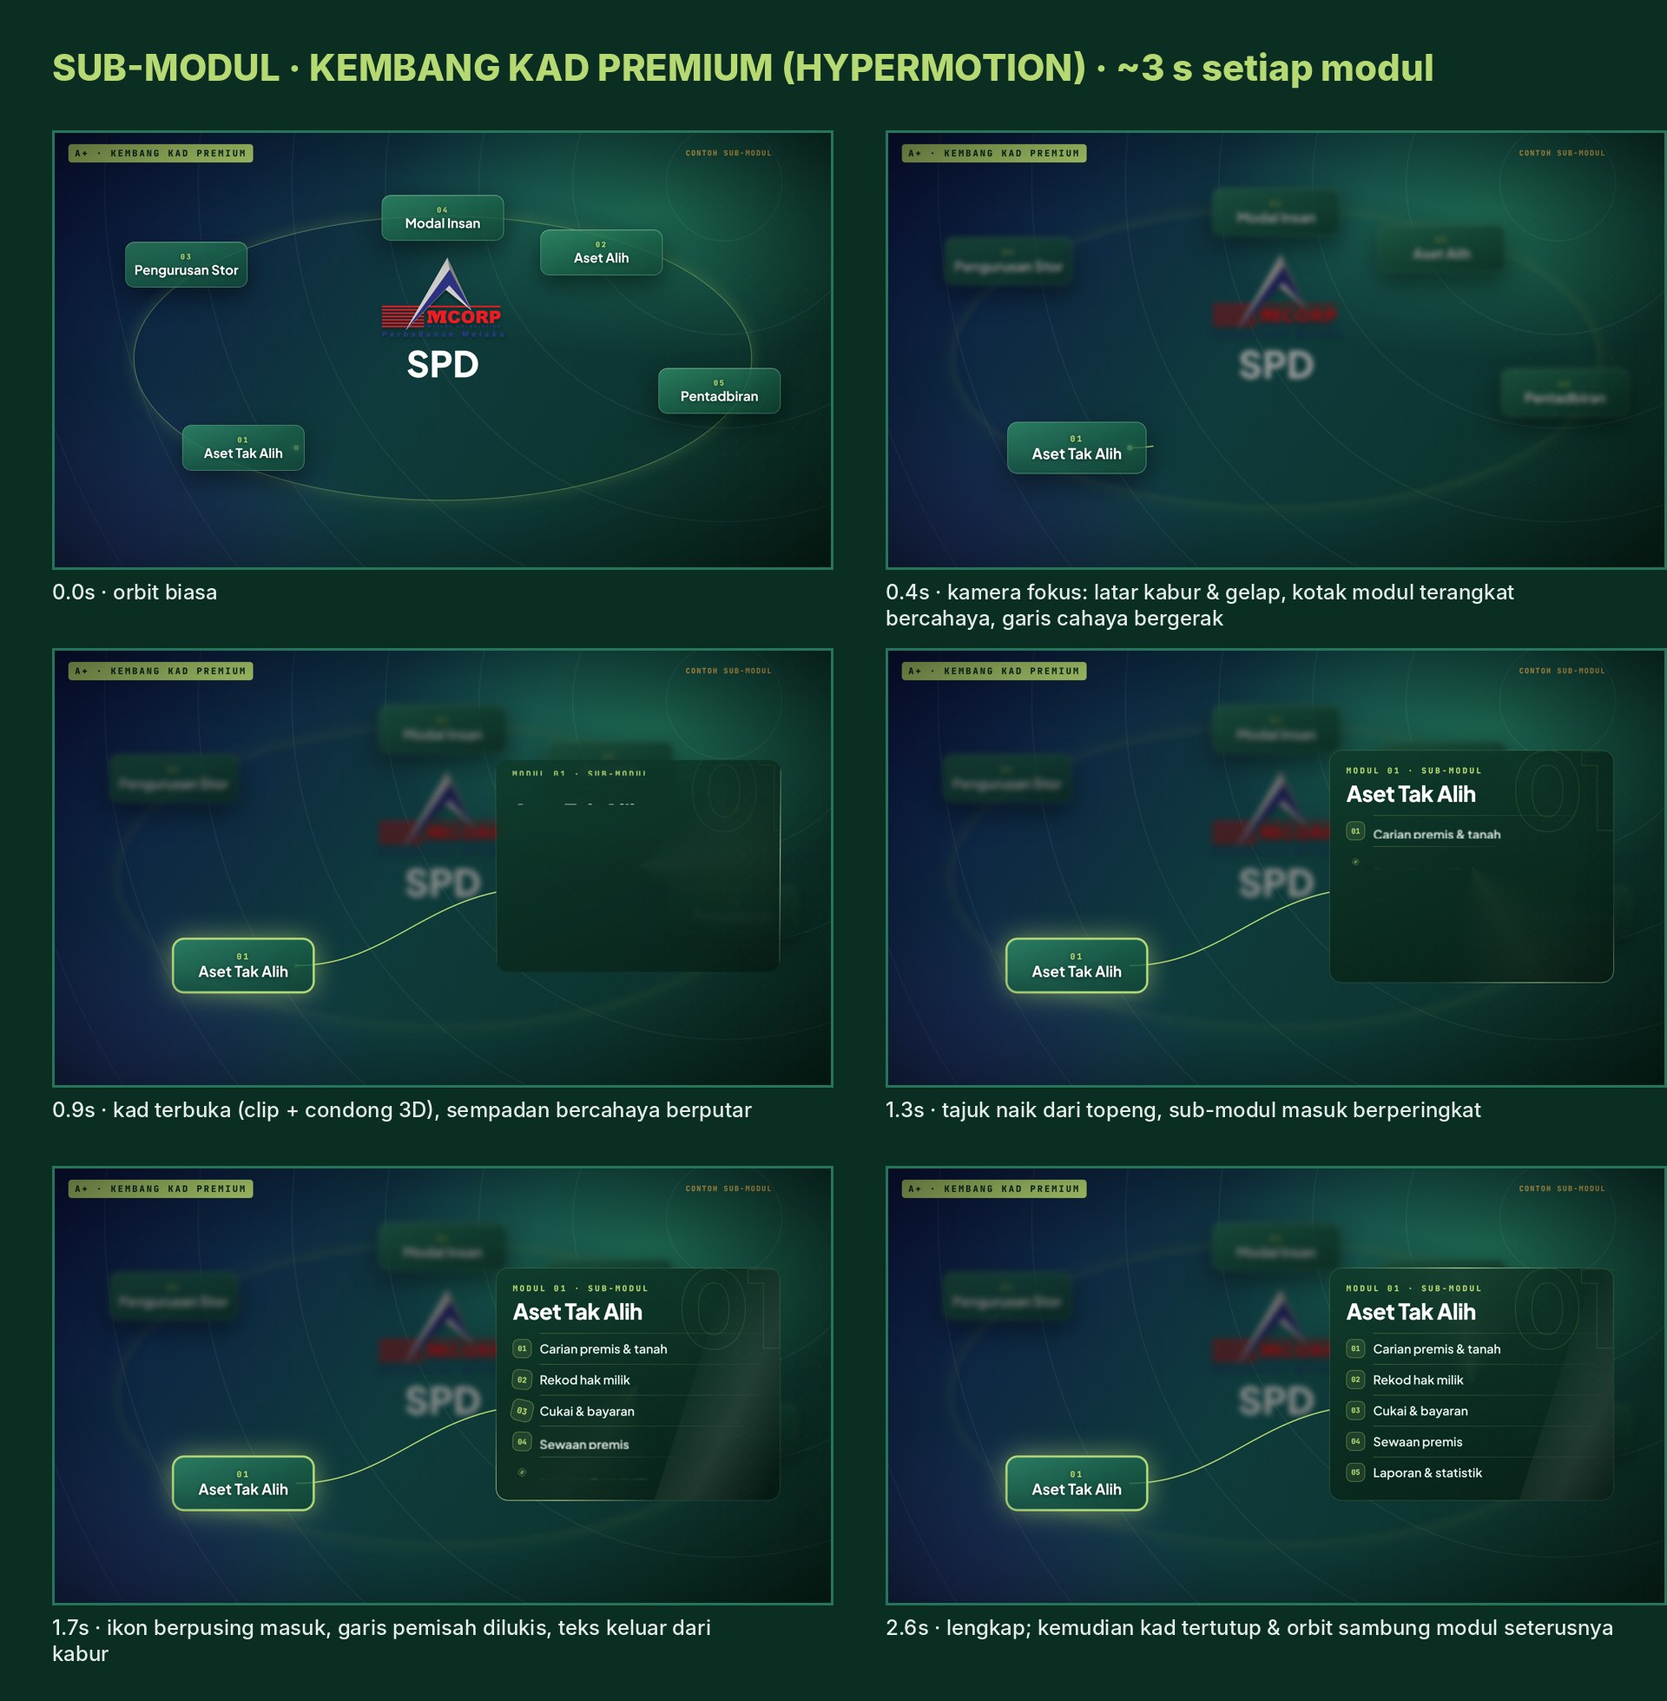
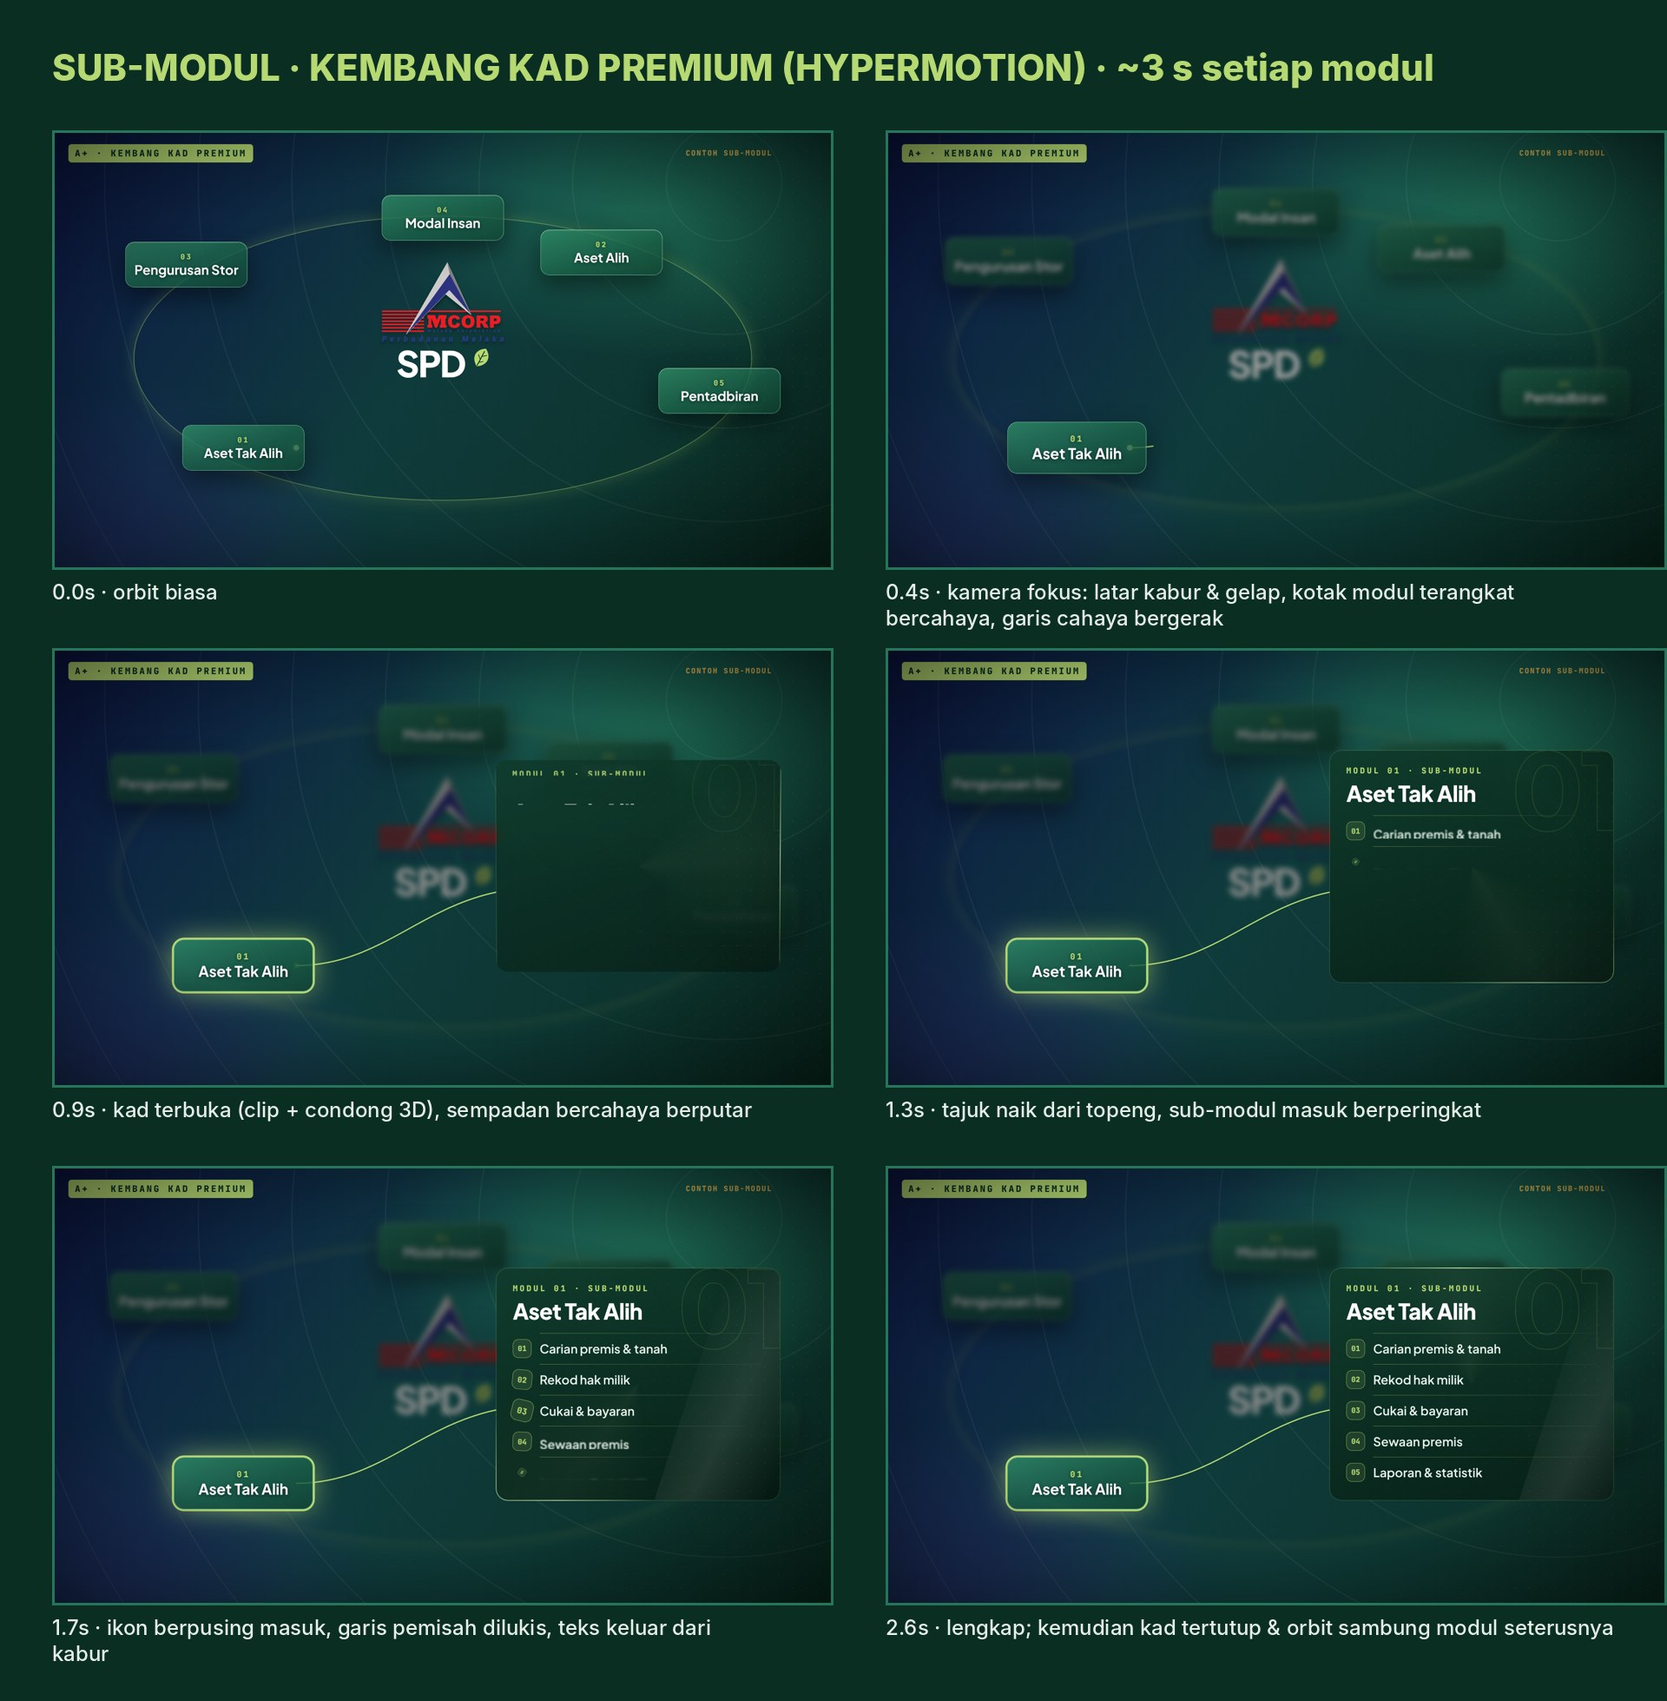
SPD GREEN v10 plan: opener back on the film's navy-teal-emerald look; SPD leaf in the sub-module mockup
Claude-Session: https://claude.ai/code/session_014fjMyw9vyhvV2J4P82XCFp

diff --git a/edits/spd-green/hf/compositions/s00.html b/edits/spd-green/hf/compositions/s00.html
@@ -6,13 +6,13 @@
       <div id="root" data-composition-id="s00" data-width="1920" data-height="1080" style="position:absolute;inset:0;overflow:hidden">
       <div id="s00-o" style="position:absolute;inset:0"><div id="s00-i" style="position:absolute;inset:0">
 
-<div class="F" style="background:radial-gradient(ellipse 80% 75% at 50% 40%,#4aa883 0%,#22735a 42%,#124a39 78%,#0d3a2c 100%)">
+<div class="F gdark">
   <div id="s00-cone" class="abs" style="left:460px;top:-160px;width:1000px;height:980px;opacity:0;
     background:conic-gradient(from 180deg at 50% 0%,transparent 0 160deg,rgba(235,255,240,.18) 170deg,rgba(240,255,244,.30) 180deg,rgba(235,255,240,.18) 190deg,transparent 200deg);
     -webkit-mask-image:linear-gradient(#000 30%,transparent 92%)"></div>
   <div id="s00-dust" class="abs" style="inset:0"><i class="s00-du" style="position:absolute;left:778px;top:735px;width:3px;height:3px;border-radius:50%;background:rgba(220,255,225,0.38);display:block;filter:blur(0px)" data-dy="-90"></i><i class="s00-du" style="position:absolute;left:474px;top:548px;width:4px;height:4px;border-radius:50%;background:rgba(220,255,225,0.54);display:block;filter:blur(1px)" data-dy="-64"></i><i class="s00-du" style="position:absolute;left:1428px;top:165px;width:3px;height:3px;border-radius:50%;background:rgba(220,255,225,0.57);display:block;filter:blur(0px)" data-dy="-70"></i><i class="s00-du" style="position:absolute;left:770px;top:605px;width:3px;height:3px;border-radius:50%;background:rgba(220,255,225,0.38);display:block;filter:blur(0px)" data-dy="-86"></i><i class="s00-du" style="position:absolute;left:1453px;top:864px;width:4px;height:4px;border-radius:50%;background:rgba(220,255,225,0.30);display:block;filter:blur(1px)" data-dy="-84"></i><i class="s00-du" style="position:absolute;left:895px;top:475px;width:4px;height:4px;border-radius:50%;background:rgba(220,255,225,0.28);display:block;filter:blur(1px)" data-dy="-89"></i><i class="s00-du" style="position:absolute;left:301px;top:298px;width:2px;height:2px;border-radius:50%;background:rgba(220,255,225,0.34);display:block;filter:blur(0px)" data-dy="-32"></i><i class="s00-du" style="position:absolute;left:407px;top:561px;width:2px;height:2px;border-radius:50%;background:rgba(220,255,225,0.42);display:block;filter:blur(0px)" data-dy="-45"></i><i class="s00-du" style="position:absolute;left:1113px;top:509px;width:4px;height:4px;border-radius:50%;background:rgba(220,255,225,0.28);display:block;filter:blur(1px)" data-dy="-50"></i><i class="s00-du" style="position:absolute;left:706px;top:877px;width:3px;height:3px;border-radius:50%;background:rgba(220,255,225,0.55);display:block;filter:blur(0px)" data-dy="-69"></i><i class="s00-du" style="position:absolute;left:478px;top:398px;width:6px;height:6px;border-radius:50%;background:rgba(220,255,225,0.40);display:block;filter:blur(1px)" data-dy="-64"></i><i class="s00-du" style="position:absolute;left:541px;top:217px;width:4px;height:4px;border-radius:50%;background:rgba(220,255,225,0.36);display:block;filter:blur(1px)" data-dy="-84"></i><i class="s00-du" style="position:absolute;left:322px;top:141px;width:2px;height:2px;border-radius:50%;background:rgba(220,255,225,0.46);display:block;filter:blur(0px)" data-dy="-59"></i><i class="s00-du" style="position:absolute;left:663px;top:778px;width:2px;height:2px;border-radius:50%;background:rgba(220,255,225,0.50);display:block;filter:blur(0px)" data-dy="-62"></i><i class="s00-du" style="position:absolute;left:1342px;top:275px;width:3px;height:3px;border-radius:50%;background:rgba(220,255,225,0.69);display:block;filter:blur(0px)" data-dy="-41"></i><i class="s00-du" style="position:absolute;left:568px;top:509px;width:3px;height:3px;border-radius:50%;background:rgba(220,255,225,0.54);display:block;filter:blur(0px)" data-dy="-83"></i><i class="s00-du" style="position:absolute;left:1108px;top:510px;width:2px;height:2px;border-radius:50%;background:rgba(220,255,225,0.70);display:block;filter:blur(0px)" data-dy="-90"></i><i class="s00-du" style="position:absolute;left:852px;top:686px;width:2px;height:2px;border-radius:50%;background:rgba(220,255,225,0.39);display:block;filter:blur(0px)" data-dy="-34"></i><i class="s00-du" style="position:absolute;left:340px;top:295px;width:4px;height:4px;border-radius:50%;background:rgba(220,255,225,0.33);display:block;filter:blur(1px)" data-dy="-36"></i><i class="s00-du" style="position:absolute;left:1532px;top:737px;width:6px;height:6px;border-radius:50%;background:rgba(220,255,225,0.51);display:block;filter:blur(1px)" data-dy="-88"></i><i class="s00-du" style="position:absolute;left:599px;top:298px;width:6px;height:6px;border-radius:50%;background:rgba(220,255,225,0.45);display:block;filter:blur(1px)" data-dy="-90"></i><i class="s00-du" style="position:absolute;left:1549px;top:416px;width:2px;height:2px;border-radius:50%;background:rgba(220,255,225,0.62);display:block;filter:blur(0px)" data-dy="-66"></i><i class="s00-du" style="position:absolute;left:450px;top:156px;width:4px;height:4px;border-radius:50%;background:rgba(220,255,225,0.29);display:block;filter:blur(1px)" data-dy="-53"></i><i class="s00-du" style="position:absolute;left:1603px;top:328px;width:3px;height:3px;border-radius:50%;background:rgba(220,255,225,0.26);display:block;filter:blur(0px)" data-dy="-67"></i><i class="s00-du" style="position:absolute;left:1061px;top:717px;width:3px;height:3px;border-radius:50%;background:rgba(220,255,225,0.45);display:block;filter:blur(0px)" data-dy="-53"></i><i class="s00-du" style="position:absolute;left:1290px;top:668px;width:6px;height:6px;border-radius:50%;background:rgba(220,255,225,0.31);display:block;filter:blur(1px)" data-dy="-66"></i><i class="s00-du" style="position:absolute;left:674px;top:722px;width:6px;height:6px;border-radius:50%;background:rgba(220,255,225,0.32);display:block;filter:blur(1px)" data-dy="-32"></i><i class="s00-du" style="position:absolute;left:767px;top:705px;width:4px;height:4px;border-radius:50%;background:rgba(220,255,225,0.36);display:block;filter:blur(1px)" data-dy="-78"></i><i class="s00-du" style="position:absolute;left:624px;top:837px;width:6px;height:6px;border-radius:50%;background:rgba(220,255,225,0.53);display:block;filter:blur(1px)" data-dy="-55"></i><i class="s00-du" style="position:absolute;left:702px;top:783px;width:2px;height:2px;border-radius:50%;background:rgba(220,255,225,0.68);display:block;filter:blur(0px)" data-dy="-34"></i><i class="s00-du" style="position:absolute;left:1288px;top:698px;width:4px;height:4px;border-radius:50%;background:rgba(220,255,225,0.29);display:block;filter:blur(1px)" data-dy="-87"></i><i class="s00-du" style="position:absolute;left:512px;top:191px;width:2px;height:2px;border-radius:50%;background:rgba(220,255,225,0.27);display:block;filter:blur(0px)" data-dy="-74"></i><i class="s00-du" style="position:absolute;left:788px;top:837px;width:4px;height:4px;border-radius:50%;background:rgba(220,255,225,0.57);display:block;filter:blur(1px)" data-dy="-74"></i><i class="s00-du" style="position:absolute;left:1161px;top:690px;width:2px;height:2px;border-radius:50%;background:rgba(220,255,225,0.47);display:block;filter:blur(0px)" data-dy="-57"></i><i class="s00-du" style="position:absolute;left:659px;top:817px;width:2px;height:2px;border-radius:50%;background:rgba(220,255,225,0.69);display:block;filter:blur(0px)" data-dy="-82"></i><i class="s00-du" style="position:absolute;left:767px;top:570px;width:2px;height:2px;border-radius:50%;background:rgba(220,255,225,0.50);display:block;filter:blur(0px)" data-dy="-36"></i><i class="s00-du" style="position:absolute;left:1561px;top:709px;width:2px;height:2px;border-radius:50%;background:rgba(220,255,225,0.28);display:block;filter:blur(0px)" data-dy="-77"></i><i class="s00-du" style="position:absolute;left:717px;top:846px;width:2px;height:2px;border-radius:50%;background:rgba(220,255,225,0.26);display:block;filter:blur(0px)" data-dy="-73"></i><i class="s00-du" style="position:absolute;left:1142px;top:536px;width:4px;height:4px;border-radius:50%;background:rgba(220,255,225,0.36);display:block;filter:blur(1px)" data-dy="-88"></i><i class="s00-du" style="position:absolute;left:660px;top:368px;width:2px;height:2px;border-radius:50%;background:rgba(220,255,225,0.42);display:block;filter:blur(0px)" data-dy="-54"></i><i class="s00-du" style="position:absolute;left:569px;top:174px;width:3px;height:3px;border-radius:50%;background:rgba(220,255,225,0.41);display:block;filter:blur(0px)" data-dy="-33"></i><i class="s00-du" style="position:absolute;left:1222px;top:418px;width:3px;height:3px;border-radius:50%;background:rgba(220,255,225,0.55);display:block;filter:blur(0px)" data-dy="-46"></i><i class="s00-du" style="position:absolute;left:1368px;top:678px;width:3px;height:3px;border-radius:50%;background:rgba(220,255,225,0.68);display:block;filter:blur(0px)" data-dy="-53"></i><i class="s00-du" style="position:absolute;left:371px;top:98px;width:4px;height:4px;border-radius:50%;background:rgba(220,255,225,0.46);display:block;filter:blur(1px)" data-dy="-68"></i><i class="s00-du" style="position:absolute;left:938px;top:114px;width:2px;height:2px;border-radius:50%;background:rgba(220,255,225,0.26);display:block;filter:blur(0px)" data-dy="-50"></i><i class="s00-du" style="position:absolute;left:453px;top:573px;width:4px;height:4px;border-radius:50%;background:rgba(220,255,225,0.28);display:block;filter:blur(1px)" data-dy="-71"></i></div>
   <div id="s00-gl" class="abs" style="left:510px;top:200px;width:900px;height:560px;opacity:0;
-    background:radial-gradient(closest-side,rgba(255,255,255,.62),rgba(225,255,235,.22) 55%,transparent)"></div>
+    background:radial-gradient(closest-side,rgba(255,255,255,.50),rgba(182,217,115,.14) 55%,transparent)"></div>
   <div id="s00-floor" class="abs" style="left:0;right:0;top:720px;height:2px;opacity:0;background:linear-gradient(90deg,transparent,rgba(182,217,115,.55),transparent)"></div>
   <div id="s00-lw" class="abs" style="left:0;right:0;top:330px;display:flex;justify-content:center;perspective:1500px;opacity:0"><div id="s00-logo" style="position:relative;width:520px;height:347px;transform-style:preserve-3d"><div style="position:absolute;inset:0;transform:translateZ(-27.0px);filter:brightness(0.30)"><img src="assets/img/logo-pptx.png" style="width:100%;height:100%;display:block"></div><div style="position:absolute;inset:0;transform:translateZ(-25.5px);filter:brightness(0.31)"><img src="assets/img/logo-pptx.png" style="width:100%;height:100%;display:block"></div><div style="position:absolute;inset:0;transform:translateZ(-24.0px);filter:brightness(0.33)"><img src="assets/img/logo-pptx.png" style="width:100%;height:100%;display:block"></div><div style="position:absolute;inset:0;transform:translateZ(-22.5px);filter:brightness(0.34)"><img src="assets/img/logo-pptx.png" style="width:100%;height:100%;display:block"></div><div style="position:absolute;inset:0;transform:translateZ(-21.0px);filter:brightness(0.35)"><img src="assets/img/logo-pptx.png" style="width:100%;height:100%;display:block"></div><div style="position:absolute;inset:0;transform:translateZ(-19.5px);filter:brightness(0.37)"><img src="assets/img/logo-pptx.png" style="width:100%;height:100%;display:block"></div><div style="position:absolute;inset:0;transform:translateZ(-18.0px);filter:brightness(0.38)"><img src="assets/img/logo-pptx.png" style="width:100%;height:100%;display:block"></div><div style="position:absolute;inset:0;transform:translateZ(-16.5px);filter:brightness(0.40)"><img src="assets/img/logo-pptx.png" style="width:100%;height:100%;display:block"></div><div style="position:absolute;inset:0;transform:translateZ(-15.0px);filter:brightness(0.41)"><img src="assets/img/logo-pptx.png" style="width:100%;height:100%;display:block"></div><div style="position:absolute;inset:0;transform:translateZ(-13.5px);filter:brightness(0.42)"><img src="assets/img/logo-pptx.png" style="width:100%;height:100%;display:block"></div><div style="position:absolute;inset:0;transform:translateZ(-12.0px);filter:brightness(0.44)"><img src="assets/img/logo-pptx.png" style="width:100%;height:100%;display:block"></div><div style="position:absolute;inset:0;transform:translateZ(-10.5px);filter:brightness(0.45)"><img src="assets/img/logo-pptx.png" style="width:100%;height:100%;display:block"></div><div style="position:absolute;inset:0;transform:translateZ(-9.0px);filter:brightness(0.46)"><img src="assets/img/logo-pptx.png" style="width:100%;height:100%;display:block"></div><div style="position:absolute;inset:0;transform:translateZ(-7.5px);filter:brightness(0.48)"><img src="assets/img/logo-pptx.png" style="width:100%;height:100%;display:block"></div><div style="position:absolute;inset:0;transform:translateZ(-6.0px);filter:brightness(0.49)"><img src="assets/img/logo-pptx.png" style="width:100%;height:100%;display:block"></div><div style="position:absolute;inset:0;transform:translateZ(-4.5px);filter:brightness(0.50)"><img src="assets/img/logo-pptx.png" style="width:100%;height:100%;display:block"></div><div style="position:absolute;inset:0;transform:translateZ(-3.0px);filter:brightness(0.52)"><img src="assets/img/logo-pptx.png" style="width:100%;height:100%;display:block"></div><div style="position:absolute;inset:0;transform:translateZ(-1.5px);filter:brightness(0.53)"><img src="assets/img/logo-pptx.png" style="width:100%;height:100%;display:block"></div><div style="position:absolute;inset:0"><img src="assets/img/logo-pptx.png" style="width:100%;height:100%;display:block"></div><div class="sheen" id="s00-logo-sh" style="position:absolute;inset:0;transform:translateZ(0.6px);-webkit-mask:url(assets/img/logo-pptx.png) center/100% 100% no-repeat;mask:url(assets/img/logo-pptx.png) center/100% 100% no-repeat;background:linear-gradient(105deg,transparent 40%,rgba(255,255,255,.9) 50%,transparent 60%);background-size:320% 100%;background-position:120% 0"></div></div></div>
   <div id="s00-rw" class="abs" style="left:0;right:0;top:726px;height:260px;display:flex;justify-content:center;perspective:1500px;opacity:0;

diff --git a/edits/spd-green/pelan5/mockup/sub-modul-premium.html b/edits/spd-green/pelan5/mockup/sub-modul-premium.html
@@ -31,7 +31,7 @@ body{margin:0;width:1920px;height:1080px;overflow:hidden}
   <div class="ring"></div>
   <div style="position:absolute;left:960px;top:470px;transform:translate(-50%,-50%);text-align:center">
    <img src="file:///home/user/AI-IZZUL/edits/spd-green/hf/assets/img/logo-pptx.png" style="width:300px;display:block;margin:auto;filter:drop-shadow(0 6px 4px rgba(0,0,0,.35))">
-   <div style="font:800 88px 'Plus Jakarta Sans';color:#fff;margin-top:4px">SPD</div></div>
+   <div style="display:flex;justify-content:center;margin-top:4px"><div style="display:flex;align-items:center;gap:5.279999999999999px"><span style="font:800 88px/1 'Plus Jakarta Sans';letter-spacing:-.04em;color:#fff">SPD</span><svg viewBox="0 0 100 100" style="width:54.56px;height:54.56px;transform:rotate(28deg) translateY(-15.84px)"><path d="M50 95 C10 70 8 30 50 5 C92 30 90 70 50 95Z" fill="#B6D973"/><path d="M50 92 L50 18" stroke="#0B2E22" stroke-width="4" fill="none"/><path d="M50 60 L32 44 M50 45 L68 30 M50 75 L66 62" stroke="#0B2E22" stroke-width="3" fill="none"/></svg></div></div></div>
   <div class="tile" id="t1" style="left:1350px;top:300px"><span class="n">02</span>Aset Alih</div>
   <div class="tile" id="t2" style="left:330px;top:330px"><span class="n">03</span>Pengurusan Stor</div>
   <div class="tile" id="t3" style="left:960px;top:215px"><span class="n">04</span>Modal Insan</div>

diff --git a/scripts/spd_build.py b/scripts/spd_build.py
@@ -220,13 +220,13 @@ def s00(S):
                    f'background:rgba(220,255,225,{r.uniform(.25, .7):.2f});display:block;filter:blur({0 if w < 4 else 1}px)" data-dy="{r.randint(-90, -30)}"></i>'
                    for w in [r.choice([2, 2, 3, 3, 4, 6]) for _ in range(46)])
     html = f"""
-<div class="F" style="background:radial-gradient(ellipse 80% 75% at 50% 40%,#4aa883 0%,#22735a 42%,#124a39 78%,#0d3a2c 100%)">
+<div class="F gdark">
   <div id="s00-cone" class="abs" style="left:460px;top:-160px;width:1000px;height:980px;opacity:0;
     background:conic-gradient(from 180deg at 50% 0%,transparent 0 160deg,rgba(235,255,240,.18) 170deg,rgba(240,255,244,.30) 180deg,rgba(235,255,240,.18) 190deg,transparent 200deg);
     -webkit-mask-image:linear-gradient(#000 30%,transparent 92%)"></div>
   <div id="s00-dust" class="abs" style="inset:0">{dust}</div>
   <div id="s00-gl" class="abs" style="left:510px;top:200px;width:900px;height:560px;opacity:0;
-    background:radial-gradient(closest-side,rgba(255,255,255,.62),rgba(225,255,235,.22) 55%,transparent)"></div>
+    background:radial-gradient(closest-side,rgba(255,255,255,.50),rgba(182,217,115,.14) 55%,transparent)"></div>
   <div id="s00-floor" class="abs" style="left:0;right:0;top:720px;height:2px;opacity:0;background:linear-gradient(90deg,transparent,rgba(182,217,115,.55),transparent)"></div>
   <div id="s00-lw" class="abs" style="left:0;right:0;top:330px;display:flex;justify-content:center;perspective:1500px;opacity:0">{logo3d("s00-logo", 520, 18)}</div>
   <div id="s00-rw" class="abs" style="left:0;right:0;top:726px;height:260px;display:flex;justify-content:center;perspective:1500px;opacity:0;
